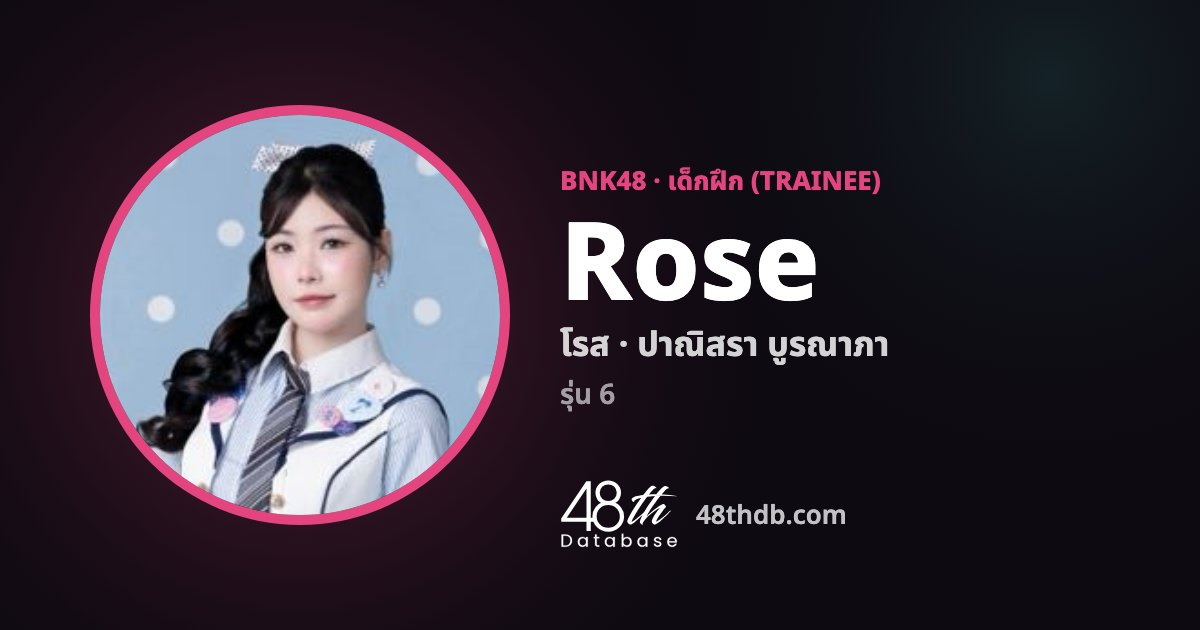
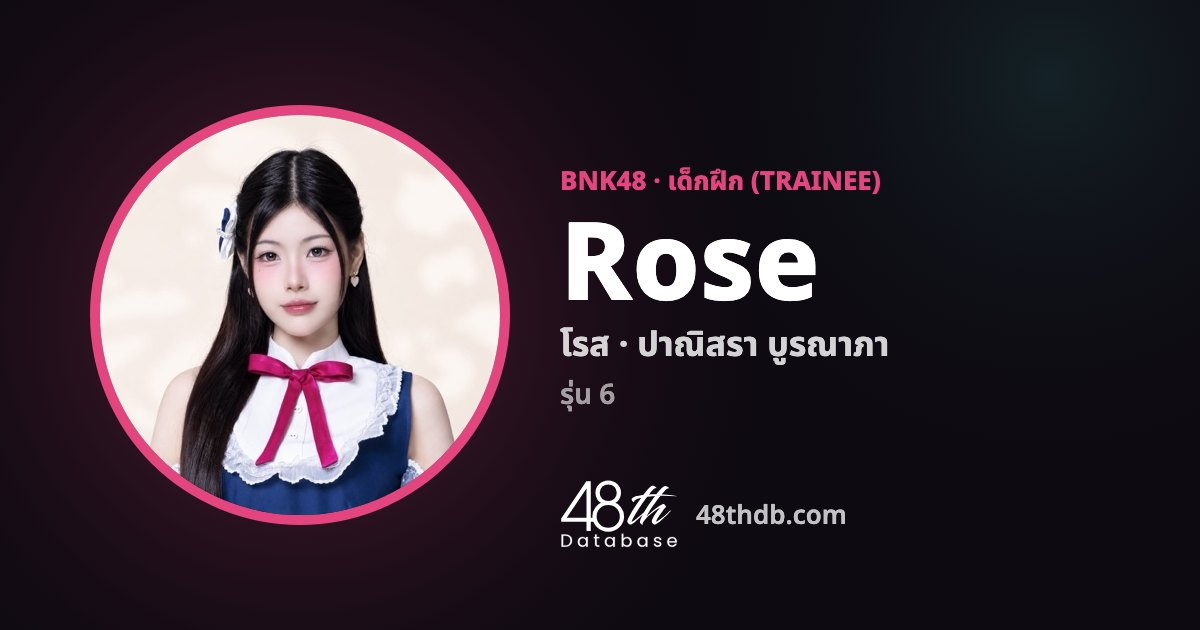
Rose's new profile photo, as a file like everyone else's

Changed region(s): [[0.0617, 0.181, 0.4317, 0.8143]]

diff --git a/m/index.html b/m/index.html
@@ -44,7 +44,7 @@ h2{font-size:18px;margin:22px 0 8px}ul{margin:0;padding-left:20px}
 </head><body><div class="wrap">
 <div class="top"><a href="/">48thDb</a><a href="/?v=browse">เปิดในเว็บ →</a></div>
 <h1>สมาชิก BNK48 และ CGM48</h1>
-<section class="grp"><h2>BNK48 (37)</h2><div class="list"><a href="/m/bnk-arlee"><img src="/photos/bnk-arlee.jpg" alt="" loading="lazy" width="36" height="36"><span><b>Arlee</b><small>อาหลี · Team NV</small></span></a><a href="/m/bnk-berry"><img src="/photos/bnk-berry.jpg" alt="" loading="lazy" width="36" height="36"><span><b>Berry</b><small>เบอร์รี่ · Team NV</small></span></a><a href="/m/bnk-blythe"><img src="/photos/bnk-blythe.jpg" alt="" loading="lazy" width="36" height="36"><span><b>Blythe</b><small>บลายธ์ · เด็กฝึก (Trainee)</small></span></a><a href="/m/bnk-cartoon"><img src="/photos/bnk-cartoon.jpg" alt="" loading="lazy" width="36" height="36"><span><b>Cartoon</b><small>การ์ตูน · เด็กฝึก (Trainee)</small></span></a><a href="/m/bnk-emmy"><img src="/photos/bnk-emmy.jpg" alt="" loading="lazy" width="36" height="36"><span><b>Emmy</b><small>เอ็มมี่ · Team NV</small></span></a><a href="/m/bnk-fame"><img src="/photos/bnk-fame.jpg" alt="" loading="lazy" width="36" height="36"><span><b>Fame</b><small>เฟม · Team BIII</small></span></a><a href="/m/bnk-galeya"><img src="/photos/bnk-galeya.jpg" alt="" loading="lazy" width="36" height="36"><span><b>Galeya</b><small>เกลญ่า · เด็กฝึก (Trainee)</small></span></a><a href="/m/bnk-grape"><img src="/photos/bnk-grape.jpg" alt="" loading="lazy" width="36" height="36"><span><b>Grape</b><small>เกรฟ · เด็กฝึก (Trainee)</small></span></a><a href="/m/bnk-hoop"><img src="/photos/bnk-hoop.jpg" alt="" loading="lazy" width="36" height="36"><span><b>Hoop</b><small>ฮูพ · Team BIII</small></span></a><a href="/m/bnk-inkcha"><img src="/photos/bnk-inkcha.jpg" alt="" loading="lazy" width="36" height="36"><span><b>Inkcha</b><small>อิ้งค์ชา · เด็กฝึก (Trainee)</small></span></a><a href="/m/bnk-janry"><img src="/photos/bnk-janry.jpg" alt="" loading="lazy" width="36" height="36"><span><b>Janry</b><small>แจนรี่ · Team BIII</small></span></a><a href="/m/bnk-jew"><img src="/photos/bnk-jew.jpg" alt="" loading="lazy" width="36" height="36"><span><b>Jew</b><small>จิว · Team NV</small></span></a><a href="/m/bnk-khaimook"><img src="/photos/bnk-khaimook.jpg" alt="" loading="lazy" width="36" height="36"><span><b>Khaimook</b><small>ไข่มุก · เด็กฝึก (Trainee)</small></span></a><a href="/m/bnk-khowjow"><img src="/photos/bnk-khowjow.jpg" alt="" loading="lazy" width="36" height="36"><span><b>Khowjow</b><small>ข้าวจ้าว · เด็กฝึก (Trainee)</small></span></a><a href="/m/bnk-l"><img src="/photos/bnk-l.jpg" alt="" loading="lazy" width="36" height="36"><span><b>L</b><small>แอล · Team NV</small></span></a><a href="/m/bnk-luksorn"><img src="/photos/bnk-luksorn.jpg" alt="" loading="lazy" width="36" height="36"><span><b>Luksorn</b><small>ลูกศร · Team BIII</small></span></a><a href="/m/bnk-mail"><img src="/photos/bnk-mail.jpg" alt="" loading="lazy" width="36" height="36"><span><b>Mail</b><small>เมล · Team BIII</small></span></a><a href="/m/bnk-marine"><img src="/photos/bnk-marine.jpg" alt="" loading="lazy" width="36" height="36"><span><b>Marine</b><small>มารีน · Team BIII</small></span></a><a href="/m/bnk-mayji"><img src="/photos/bnk-mayji.jpg" alt="" loading="lazy" width="36" height="36"><span><b>Mayji</b><small>เมย์จิ · เด็กฝึก (Trainee)</small></span></a><a href="/m/bnk-micha"><img src="/photos/bnk-micha.jpg" alt="" loading="lazy" width="36" height="36"><span><b>Micha</b><small>มิชา · Team BIII</small></span></a><a href="/m/bnk-mint"><img src="/photos/bnk-mint.jpg" alt="" loading="lazy" width="36" height="36"><span><b>Mint</b><small>มิ้นท์ · เด็กฝึก (Trainee)</small></span></a><a href="/m/bnk-mirin"><img src="/photos/bnk-mirin.jpg" alt="" loading="lazy" width="36" height="36"><span><b>Mirin</b><small>มิริน · เด็กฝึก (Trainee)</small></span></a><a href="/m/bnk-monet"><img src="/photos/bnk-monet.jpg" alt="" loading="lazy" width="36" height="36"><span><b>Monet</b><small>โมเน่ต์ · Team BIII</small></span></a><a href="/m/bnk-nall"><img src="/photos/bnk-nall.jpg" alt="" loading="lazy" width="36" height="36"><span><b>Nall</b><small>แนล · เด็กฝึก (Trainee)</small></span></a><a href="/m/bnk-nammonn"><img src="/photos/bnk-nammonn.jpg" alt="" loading="lazy" width="36" height="36"><span><b>Nammonn</b><small>น้ำมนต์ · เด็กฝึก (Trainee)</small></span></a><a href="/m/bnk-neen"><img src="/photos/bnk-neen.jpg" alt="" loading="lazy" width="36" height="36"><span><b>Neen</b><small>นีน · เด็กฝึก (Trainee)</small></span></a><a href="/m/bnk-niya"><img src="/photos/bnk-niya.jpg" alt="" loading="lazy" width="36" height="36"><span><b>Niya</b><small>นีญ่า · เด็กฝึก (Trainee)</small></span></a><a href="/m/bnk-palmmy"><img src="/photos/bnk-palmmy.jpg" alt="" loading="lazy" width="36" height="36"><span><b>Palmmy</b><small>ปาล์มมี่ · Team NV</small></span></a><a href="/m/bnk-pancake"><span class="ph"></span><span><b>Pancake</b><small>แพนเค้ก · Team NV</small></span></a><a href="/m/bnk-patt"><img src="/photos/bnk-patt.jpg" alt="" loading="lazy" width="36" height="36"><span><b>Patt</b><small>แพท · Team BIII</small></span></a><a href="/m/bnk-praew"><img src="/photos/bnk-praew.jpg" alt="" loading="lazy" width="36" height="36"><span><b>Praew</b><small>แพรว · Team BIII</small></span></a><a href="/m/bnk-proud"><img src="/photos/bnk-proud.jpg" alt="" loading="lazy" width="36" height="36"><span><b>Proud</b><small>ภราว · Team NV</small></span></a><a href="/m/bnk-rose"><span class="ph"></span><span><b>Rose</b><small>โรส · เด็กฝึก (Trainee)</small></span></a><a href="/m/bnk-saonoi"><img src="/photos/bnk-saonoi.jpg" alt="" loading="lazy" width="36" height="36"><span><b>Saonoi</b><small>สาวน้อย · Team NV</small></span></a><a href="/m/bnk-sindy"><img src="/photos/bnk-sindy.jpg" alt="" loading="lazy" width="36" height="36"><span><b>Sindy</b><small>ซินดี้ · Team NV</small></span></a><a href="/m/bnk-wawa"><img src="/photos/bnk-wawa.jpg" alt="" loading="lazy" width="36" height="36"><span><b>Wawa</b><small>วาว่า · Team BIII</small></span></a><a href="/m/bnk-yoghurt"><span class="ph"></span><span><b>Yoghurt</b><small>โยเกิร์ต · Team NV</small></span></a></div></section><section class="grp"><h2>CGM48 (21)</h2><div class="list"><a href="/m/cgm-chifa"><img src="/photos/cgm-chifa.jpg" alt="" loading="lazy" width="36" height="36"><span><b>Chifa</b><small>ชิฟา · เด็กฝึก (Trainee)</small></span></a><a href="/m/cgm-else"><img src="/photos/cgm-else.jpg" alt="" loading="lazy" width="36" height="36"><span><b>Else</b><small>เอลฟ์ · Team C</small></span></a><a href="/m/cgm-emma"><img src="/photos/cgm-emma.jpg" alt="" loading="lazy" width="36" height="36"><span><b>Emma</b><small>เอมม่า · เด็กฝึก (Trainee)</small></span></a><a href="/m/cgm-ginna"><img src="/photos/cgm-ginna.jpg" alt="" loading="lazy" width="36" height="36"><span><b>Ginna</b><small>จีนน่า · Team C</small></span></a><a href="/m/cgm-hongyok"><img src="/photos/cgm-hongyok.jpg" alt="" loading="lazy" width="36" height="36"><span><b>Hongyok</b><small>หงษ์หยก · เด็กฝึก (Trainee)</small></span></a><a href="/m/cgm-jingjing"><img src="/photos/cgm-jingjing.jpg" alt="" loading="lazy" width="36" height="36"><span><b>Jingjing</b><small>จิงจิง · Team C</small></span></a><a href="/m/cgm-kwan"><img src="/photos/cgm-kwan.jpg" alt="" loading="lazy" width="36" height="36"><span><b>Kwan</b><small>ขวัญ · Team C</small></span></a><a href="/m/cgm-lewlew"><img src="/photos/cgm-lewlew.jpg" alt="" loading="lazy" width="36" height="36"><span><b>Lewlew</b><small>หลิวหลิว · เด็กฝึก (Trainee)</small></span></a><a href="/m/cgm-lingling"><img src="/photos/cgm-lingling.jpg" alt="" loading="lazy" width="36" height="36"><span><b>Lingling</b><small>หลิงหลิง · Team C</small></span></a><a href="/m/cgm-lookked"><img src="/photos/cgm-lookked.jpg" alt="" loading="lazy" width="36" height="36"><span><b>Lookked</b><small>ลูกเกด · Team C</small></span></a><a href="/m/cgm-namphet"><img src="/photos/cgm-namphet.jpg" alt="" loading="lazy" width="36" height="36"><span><b>Namphet</b><small>น้ำเพชร · เด็กฝึก (Trainee)</small></span></a><a href="/m/cgm-nana"><img src="/photos/cgm-nana.jpg" alt="" loading="lazy" width="36" height="36"><span><b>Nana</b><small>นานา · Team C</small></span></a><a href="/m/cgm-nisha"><img src="/photos/cgm-nisha.jpg" alt="" loading="lazy" width="36" height="36"><span><b>Nisha</b><small>นิชา · Team C</small></span></a><a href="/m/cgm-ploen"><img src="/photos/cgm-ploen.jpg" alt="" loading="lazy" width="36" height="36"><span><b>Ploen</b><small>เพลิน · Team C</small></span></a><a href="/m/cgm-prae"><img src="/photos/cgm-prae.jpg" alt="" loading="lazy" width="36" height="36"><span><b>Prae</b><small>แพร · Team C</small></span></a><a href="/m/cgm-praifa"><img src="/photos/cgm-praifa.jpg" alt="" loading="lazy" width="36" height="36"><span><b>Praifa</b><small>ปลายฟ้า · เด็กฝึก (Trainee)</small></span></a><a href="/m/cgm-punpon"><img src="/photos/cgm-punpon.jpg" alt="" loading="lazy" width="36" height="36"><span><b>Punpon</b><small>ปันผล · เด็กฝึก (Trainee)</small></span></a><a href="/m/cgm-satangpound"><img src="/photos/cgm-satangpound.jpg" alt="" loading="lazy" width="36" height="36"><span><b>Satangpound</b><small>สตางค์ปอนด์ · เด็กฝึก (Trainee)</small></span></a><a href="/m/cgm-shenae"><img src="/photos/cgm-shenae.jpg" alt="" loading="lazy" width="36" height="36"><span><b>Shenae</b><small>ชีเน่ · เด็กฝึก (Trainee)</small></span></a><a href="/m/cgm-tara"><img src="/photos/cgm-tara.jpg" alt="" loading="lazy" width="36" height="36"><span><b>Tara</b><small>ธารา · เด็กฝึก (Trainee)</small></span></a><a href="/m/cgm-valentine"><img src="/photos/cgm-valentine.jpg" alt="" loading="lazy" width="36" height="36"><span><b>Valentine</b><small>วาเลนไทน์ · เด็กฝึก (Trainee)</small></span></a></div></section>
+<section class="grp"><h2>BNK48 (37)</h2><div class="list"><a href="/m/bnk-arlee"><img src="/photos/bnk-arlee.jpg" alt="" loading="lazy" width="36" height="36"><span><b>Arlee</b><small>อาหลี · Team NV</small></span></a><a href="/m/bnk-berry"><img src="/photos/bnk-berry.jpg" alt="" loading="lazy" width="36" height="36"><span><b>Berry</b><small>เบอร์รี่ · Team NV</small></span></a><a href="/m/bnk-blythe"><img src="/photos/bnk-blythe.jpg" alt="" loading="lazy" width="36" height="36"><span><b>Blythe</b><small>บลายธ์ · เด็กฝึก (Trainee)</small></span></a><a href="/m/bnk-cartoon"><img src="/photos/bnk-cartoon.jpg" alt="" loading="lazy" width="36" height="36"><span><b>Cartoon</b><small>การ์ตูน · เด็กฝึก (Trainee)</small></span></a><a href="/m/bnk-emmy"><img src="/photos/bnk-emmy.jpg" alt="" loading="lazy" width="36" height="36"><span><b>Emmy</b><small>เอ็มมี่ · Team NV</small></span></a><a href="/m/bnk-fame"><img src="/photos/bnk-fame.jpg" alt="" loading="lazy" width="36" height="36"><span><b>Fame</b><small>เฟม · Team BIII</small></span></a><a href="/m/bnk-galeya"><img src="/photos/bnk-galeya.jpg" alt="" loading="lazy" width="36" height="36"><span><b>Galeya</b><small>เกลญ่า · เด็กฝึก (Trainee)</small></span></a><a href="/m/bnk-grape"><img src="/photos/bnk-grape.jpg" alt="" loading="lazy" width="36" height="36"><span><b>Grape</b><small>เกรฟ · เด็กฝึก (Trainee)</small></span></a><a href="/m/bnk-hoop"><img src="/photos/bnk-hoop.jpg" alt="" loading="lazy" width="36" height="36"><span><b>Hoop</b><small>ฮูพ · Team BIII</small></span></a><a href="/m/bnk-inkcha"><img src="/photos/bnk-inkcha.jpg" alt="" loading="lazy" width="36" height="36"><span><b>Inkcha</b><small>อิ้งค์ชา · เด็กฝึก (Trainee)</small></span></a><a href="/m/bnk-janry"><img src="/photos/bnk-janry.jpg" alt="" loading="lazy" width="36" height="36"><span><b>Janry</b><small>แจนรี่ · Team BIII</small></span></a><a href="/m/bnk-jew"><img src="/photos/bnk-jew.jpg" alt="" loading="lazy" width="36" height="36"><span><b>Jew</b><small>จิว · Team NV</small></span></a><a href="/m/bnk-khaimook"><img src="/photos/bnk-khaimook.jpg" alt="" loading="lazy" width="36" height="36"><span><b>Khaimook</b><small>ไข่มุก · เด็กฝึก (Trainee)</small></span></a><a href="/m/bnk-khowjow"><img src="/photos/bnk-khowjow.jpg" alt="" loading="lazy" width="36" height="36"><span><b>Khowjow</b><small>ข้าวจ้าว · เด็กฝึก (Trainee)</small></span></a><a href="/m/bnk-l"><img src="/photos/bnk-l.jpg" alt="" loading="lazy" width="36" height="36"><span><b>L</b><small>แอล · Team NV</small></span></a><a href="/m/bnk-luksorn"><img src="/photos/bnk-luksorn.jpg" alt="" loading="lazy" width="36" height="36"><span><b>Luksorn</b><small>ลูกศร · Team BIII</small></span></a><a href="/m/bnk-mail"><img src="/photos/bnk-mail.jpg" alt="" loading="lazy" width="36" height="36"><span><b>Mail</b><small>เมล · Team BIII</small></span></a><a href="/m/bnk-marine"><img src="/photos/bnk-marine.jpg" alt="" loading="lazy" width="36" height="36"><span><b>Marine</b><small>มารีน · Team BIII</small></span></a><a href="/m/bnk-mayji"><img src="/photos/bnk-mayji.jpg" alt="" loading="lazy" width="36" height="36"><span><b>Mayji</b><small>เมย์จิ · เด็กฝึก (Trainee)</small></span></a><a href="/m/bnk-micha"><img src="/photos/bnk-micha.jpg" alt="" loading="lazy" width="36" height="36"><span><b>Micha</b><small>มิชา · Team BIII</small></span></a><a href="/m/bnk-mint"><img src="/photos/bnk-mint.jpg" alt="" loading="lazy" width="36" height="36"><span><b>Mint</b><small>มิ้นท์ · เด็กฝึก (Trainee)</small></span></a><a href="/m/bnk-mirin"><img src="/photos/bnk-mirin.jpg" alt="" loading="lazy" width="36" height="36"><span><b>Mirin</b><small>มิริน · เด็กฝึก (Trainee)</small></span></a><a href="/m/bnk-monet"><img src="/photos/bnk-monet.jpg" alt="" loading="lazy" width="36" height="36"><span><b>Monet</b><small>โมเน่ต์ · Team BIII</small></span></a><a href="/m/bnk-nall"><img src="/photos/bnk-nall.jpg" alt="" loading="lazy" width="36" height="36"><span><b>Nall</b><small>แนล · เด็กฝึก (Trainee)</small></span></a><a href="/m/bnk-nammonn"><img src="/photos/bnk-nammonn.jpg" alt="" loading="lazy" width="36" height="36"><span><b>Nammonn</b><small>น้ำมนต์ · เด็กฝึก (Trainee)</small></span></a><a href="/m/bnk-neen"><img src="/photos/bnk-neen.jpg" alt="" loading="lazy" width="36" height="36"><span><b>Neen</b><small>นีน · เด็กฝึก (Trainee)</small></span></a><a href="/m/bnk-niya"><img src="/photos/bnk-niya.jpg" alt="" loading="lazy" width="36" height="36"><span><b>Niya</b><small>นีญ่า · เด็กฝึก (Trainee)</small></span></a><a href="/m/bnk-palmmy"><img src="/photos/bnk-palmmy.jpg" alt="" loading="lazy" width="36" height="36"><span><b>Palmmy</b><small>ปาล์มมี่ · Team NV</small></span></a><a href="/m/bnk-pancake"><span class="ph"></span><span><b>Pancake</b><small>แพนเค้ก · Team NV</small></span></a><a href="/m/bnk-patt"><img src="/photos/bnk-patt.jpg" alt="" loading="lazy" width="36" height="36"><span><b>Patt</b><small>แพท · Team BIII</small></span></a><a href="/m/bnk-praew"><img src="/photos/bnk-praew.jpg" alt="" loading="lazy" width="36" height="36"><span><b>Praew</b><small>แพรว · Team BIII</small></span></a><a href="/m/bnk-proud"><img src="/photos/bnk-proud.jpg" alt="" loading="lazy" width="36" height="36"><span><b>Proud</b><small>ภราว · Team NV</small></span></a><a href="/m/bnk-rose"><img src="/photos/bnk-rose.jpg" alt="" loading="lazy" width="36" height="36"><span><b>Rose</b><small>โรส · เด็กฝึก (Trainee)</small></span></a><a href="/m/bnk-saonoi"><img src="/photos/bnk-saonoi.jpg" alt="" loading="lazy" width="36" height="36"><span><b>Saonoi</b><small>สาวน้อย · Team NV</small></span></a><a href="/m/bnk-sindy"><img src="/photos/bnk-sindy.jpg" alt="" loading="lazy" width="36" height="36"><span><b>Sindy</b><small>ซินดี้ · Team NV</small></span></a><a href="/m/bnk-wawa"><img src="/photos/bnk-wawa.jpg" alt="" loading="lazy" width="36" height="36"><span><b>Wawa</b><small>วาว่า · Team BIII</small></span></a><a href="/m/bnk-yoghurt"><span class="ph"></span><span><b>Yoghurt</b><small>โยเกิร์ต · Team NV</small></span></a></div></section><section class="grp"><h2>CGM48 (21)</h2><div class="list"><a href="/m/cgm-chifa"><img src="/photos/cgm-chifa.jpg" alt="" loading="lazy" width="36" height="36"><span><b>Chifa</b><small>ชิฟา · เด็กฝึก (Trainee)</small></span></a><a href="/m/cgm-else"><img src="/photos/cgm-else.jpg" alt="" loading="lazy" width="36" height="36"><span><b>Else</b><small>เอลฟ์ · Team C</small></span></a><a href="/m/cgm-emma"><img src="/photos/cgm-emma.jpg" alt="" loading="lazy" width="36" height="36"><span><b>Emma</b><small>เอมม่า · เด็กฝึก (Trainee)</small></span></a><a href="/m/cgm-ginna"><img src="/photos/cgm-ginna.jpg" alt="" loading="lazy" width="36" height="36"><span><b>Ginna</b><small>จีนน่า · Team C</small></span></a><a href="/m/cgm-hongyok"><img src="/photos/cgm-hongyok.jpg" alt="" loading="lazy" width="36" height="36"><span><b>Hongyok</b><small>หงษ์หยก · เด็กฝึก (Trainee)</small></span></a><a href="/m/cgm-jingjing"><img src="/photos/cgm-jingjing.jpg" alt="" loading="lazy" width="36" height="36"><span><b>Jingjing</b><small>จิงจิง · Team C</small></span></a><a href="/m/cgm-kwan"><img src="/photos/cgm-kwan.jpg" alt="" loading="lazy" width="36" height="36"><span><b>Kwan</b><small>ขวัญ · Team C</small></span></a><a href="/m/cgm-lewlew"><img src="/photos/cgm-lewlew.jpg" alt="" loading="lazy" width="36" height="36"><span><b>Lewlew</b><small>หลิวหลิว · เด็กฝึก (Trainee)</small></span></a><a href="/m/cgm-lingling"><img src="/photos/cgm-lingling.jpg" alt="" loading="lazy" width="36" height="36"><span><b>Lingling</b><small>หลิงหลิง · Team C</small></span></a><a href="/m/cgm-lookked"><img src="/photos/cgm-lookked.jpg" alt="" loading="lazy" width="36" height="36"><span><b>Lookked</b><small>ลูกเกด · Team C</small></span></a><a href="/m/cgm-namphet"><img src="/photos/cgm-namphet.jpg" alt="" loading="lazy" width="36" height="36"><span><b>Namphet</b><small>น้ำเพชร · เด็กฝึก (Trainee)</small></span></a><a href="/m/cgm-nana"><img src="/photos/cgm-nana.jpg" alt="" loading="lazy" width="36" height="36"><span><b>Nana</b><small>นานา · Team C</small></span></a><a href="/m/cgm-nisha"><img src="/photos/cgm-nisha.jpg" alt="" loading="lazy" width="36" height="36"><span><b>Nisha</b><small>นิชา · Team C</small></span></a><a href="/m/cgm-ploen"><img src="/photos/cgm-ploen.jpg" alt="" loading="lazy" width="36" height="36"><span><b>Ploen</b><small>เพลิน · Team C</small></span></a><a href="/m/cgm-prae"><img src="/photos/cgm-prae.jpg" alt="" loading="lazy" width="36" height="36"><span><b>Prae</b><small>แพร · Team C</small></span></a><a href="/m/cgm-praifa"><img src="/photos/cgm-praifa.jpg" alt="" loading="lazy" width="36" height="36"><span><b>Praifa</b><small>ปลายฟ้า · เด็กฝึก (Trainee)</small></span></a><a href="/m/cgm-punpon"><img src="/photos/cgm-punpon.jpg" alt="" loading="lazy" width="36" height="36"><span><b>Punpon</b><small>ปันผล · เด็กฝึก (Trainee)</small></span></a><a href="/m/cgm-satangpound"><img src="/photos/cgm-satangpound.jpg" alt="" loading="lazy" width="36" height="36"><span><b>Satangpound</b><small>สตางค์ปอนด์ · เด็กฝึก (Trainee)</small></span></a><a href="/m/cgm-shenae"><img src="/photos/cgm-shenae.jpg" alt="" loading="lazy" width="36" height="36"><span><b>Shenae</b><small>ชีเน่ · เด็กฝึก (Trainee)</small></span></a><a href="/m/cgm-tara"><img src="/photos/cgm-tara.jpg" alt="" loading="lazy" width="36" height="36"><span><b>Tara</b><small>ธารา · เด็กฝึก (Trainee)</small></span></a><a href="/m/cgm-valentine"><img src="/photos/cgm-valentine.jpg" alt="" loading="lazy" width="36" height="36"><span><b>Valentine</b><small>วาเลนไทน์ · เด็กฝึก (Trainee)</small></span></a></div></section>
 <section class="grp"><h2>อดีตสมาชิก BNK48 (71)</h2><div class="list"><a href="/m/bnk-bamboo"><img src="/photos/bnk-bamboo.jpg" alt="" loading="lazy" width="36" height="36"><span><b>Bamboo</b><small>แบมบู</small></span></a><a href="/m/bnk-cake"><img src="/photos/bnk-cake.jpg" alt="" loading="lazy" width="36" height="36"><span><b>Cake</b><small>เค้ก</small></span></a><a href="/m/bnk-can"><img src="/photos/bnk-can.jpg" alt="" loading="lazy" width="36" height="36"><span><b>Can</b><small>แคน</small></span></a><a href="/m/bnk-cherprang"><img src="/photos/bnk-cherprang.jpg" alt="" loading="lazy" width="36" height="36"><span><b>Cherprang</b><small>เฌอปราง</small></span></a><a href="/m/bnk-cincin"><img src="/photos/bnk-cincin.jpg" alt="" loading="lazy" width="36" height="36"><span><b>Cincin</b><small>ซินซิน</small></span></a><a href="/m/bnk-deenee"><img src="/photos/bnk-deenee.jpg" alt="" loading="lazy" width="36" height="36"><span><b>Deenee</b><small>ดีนี่</small></span></a><a href="/m/bnk-earn"><span class="ph"></span><span><b>Earn</b><small>เอิร์น</small></span></a><a href="/m/bnk-earth"><span class="ph"></span><span><b>Earth</b><small>เอิร์ธ</small></span></a><a href="/m/bnk-eve"><span class="ph"></span><span><b>Eve</b><small>อีฟ</small></span></a><a href="/m/bnk-faii"><img src="/photos/bnk-faii.jpg" alt="" loading="lazy" width="36" height="36"><span><b>Faii</b><small>ฝ้าย</small></span></a><a href="/m/bnk-fifa"><img src="/photos/bnk-fifa.jpg" alt="" loading="lazy" width="36" height="36"><span><b>Fifa</b><small>ฟีฟ่า</small></span></a><a href="/m/bnk-fond"><img src="/photos/bnk-fond.jpg" alt="" loading="lazy" width="36" height="36"><span><b>Fond</b><small>ฟ้อนด์</small></span></a><a href="/m/bnk-grace"><span class="ph"></span><span><b>Grace</b><small>เกรซ</small></span></a><a href="/m/bnk-gygee"><img src="/photos/bnk-gygee.jpg" alt="" loading="lazy" width="36" height="36"><span><b>Gygee</b><small>จีจี้</small></span></a><a href="/m/bnk-jaa"><img src="/photos/bnk-jaa.jpg" alt="" loading="lazy" width="36" height="36"><span><b>Jaa</b><small>จ๋า</small></span></a><a href="/m/bnk-jan"><img src="/photos/bnk-jan.jpg" alt="" loading="lazy" width="36" height="36"><span><b>Jan</b><small>แจน</small></span></a><a href="/m/bnk-jane"><img src="/photos/bnk-jane.jpg" alt="" loading="lazy" width="36" height="36"><span><b>Jane</b><small>เจน</small></span></a><a href="/m/bnk-jaokhem"><span class="ph"></span><span><b>Jaokhem</b><small>เจ้าเข็ม</small></span></a><a href="/m/bnk-jeje"><span class="ph"></span><span><b>Jeje</b><small>จีจี้</small></span></a><a href="/m/bnk-jennis"><img src="/photos/bnk-jennis.jpg" alt="" loading="lazy" width="36" height="36"><span><b>Jennis</b><small>เจนนิษฐ์</small></span></a><a href="/m/bnk-jib"><img src="/photos/bnk-jib.jpg" alt="" loading="lazy" width="36" height="36"><span><b>Jib</b><small>จิ๊บ</small></span></a><a href="/m/bnk-june"><img src="/photos/bnk-june.jpg" alt="" loading="lazy" width="36" height="36"><span><b>Juné</b><small>จูเน่</small></span></a><a href="/m/bnk-kaew"><img src="/photos/bnk-kaew.jpg" alt="" loading="lazy" width="36" height="36"><span><b>Kaew</b><small>แก้ว</small></span></a><a href="/m/bnk-kaimook"><img src="/photos/bnk-kaimook.jpg" alt="" loading="lazy" width="36" height="36"><span><b>Kaimook</b><small>ไข่มุก</small></span></a><a href="/m/bnk-kaofrang"><span class="ph"></span><span><b>Kaofrang</b><small>ข้าวฟ่าง</small></span></a><a href="/m/bnk-kate"><img src="/photos/bnk-kate.jpg" alt="" loading="lazy" width="36" height="36"><span><b>Kate</b><small>เคท</small></span></a><a href="/m/bnk-khamin"><img src="/photos/bnk-khamin.jpg" alt="" loading="lazy" width="36" height="36"><span><b>Khamin</b><small>ขมิ้น</small></span></a><a href="/m/bnk-kheng"><img src="/photos/bnk-kheng.jpg" alt="" loading="lazy" width="36" height="36"><span><b>Kheng</b><small>เข่ง</small></span></a><a href="/m/bnk-kitkat"><img src="/photos/bnk-kitkat.jpg" alt="" loading="lazy" width="36" height="36"><span><b>Kidcat</b><small>คิตแคต</small></span></a><a href="/m/bnk-korn"><img src="/photos/bnk-korn.jpg" alt="" loading="lazy" width="36" height="36"><span><b>Korn</b><small>ก่อน</small></span></a><a href="/m/bnk-maira"><img src="/photos/bnk-maira.jpg" alt="" loading="lazy" width="36" height="36"><span><b>Maira</b><small>มัยร่า</small></span></a><a href="/m/bnk-maysa"><img src="/photos/bnk-maysa.jpg" alt="" loading="lazy" width="36" height="36"><span><b>Maysa</b><small>เมษา</small></span></a><a href="/m/bnk-mean"><span class="ph"></span><span><b>Mean</b><small>มีน</small></span></a><a href="/m/bnk-mewnich"><img src="/photos/bnk-mewnich.jpg" alt="" loading="lazy" width="36" height="36"><span><b>Mewnich</b><small>มิวนิค</small></span></a><a href="/m/bnk-mind"><img src="/photos/bnk-mind.jpg" alt="" loading="lazy" width="36" height="36"><span><b>Mind</b><small>มายด์</small></span></a><a href="/m/bnk-minmin"><img src="/photos/bnk-minmin.jpg" alt="" loading="lazy" width="36" height="36"><span><b>Minmin</b><small>มินมิน</small></span></a><a href="/m/bnk-miori"><img src="/photos/bnk-miori.jpg" alt="" loading="lazy" width="36" height="36"><span><b>Miori</b><small>มิโอริ</small></span></a><a href="/m/bnk-mobile"><img src="/photos/bnk-mobile.jpg" alt="" loading="lazy" width="36" height="36"><span><b>Mobile</b><small>โมบายล์</small></span></a><a href="/m/bnk-music"><img src="/photos/bnk-music.jpg" alt="" loading="lazy" width="36" height="36"><span><b>Music</b><small>มิวสิค</small></span></a><a href="/m/bnk-myyu"><img src="/photos/bnk-myyu.jpg" alt="" loading="lazy" width="36" height="36"><span><b>Myyu</b><small>มายยู</small></span></a><a href="/m/bnk-namhom"><img src="/photos/bnk-namhom.jpg" alt="" loading="lazy" width="36" height="36"><span><b>Namhom</b><small>น้ำหอม</small></span></a><a href="/m/bnk-namneung"><img src="/photos/bnk-namneung.jpg" alt="" loading="lazy" width="36" height="36"><span><b>Namneung</b><small>น้ำหนึ่ง</small></span></a><a href="/m/bnk-namsai"><img src="/photos/bnk-namsai.jpg" alt="" loading="lazy" width="36" height="36"><span><b>Namsai</b><small>น้ำใส</small></span></a><a href="/m/bnk-nana"><span class="ph"></span><span><b>Nana</b><small>นานา</small></span></a><a href="/m/bnk-natherine"><img src="/photos/bnk-natherine.jpg" alt="" loading="lazy" width="36" height="36"><span><b>Natherine</b><small>แนทเธอรีน</small></span></a><a href="/m/bnk-nene"><span class="ph"></span><span><b>Nene</b><small>เนเน่</small></span></a><a href="/m/bnk-new"><img src="/photos/bnk-new.jpg" alt="" loading="lazy" width="36" height="36"><span><b>New</b><small>นิว</small></span></a><a href="/m/bnk-niky"><img src="/photos/bnk-niky.jpg" alt="" loading="lazy" width="36" height="36"><span><b>Niky</b><small>นิกี้</small></span></a><a href="/m/bnk-nine"><img src="/photos/bnk-nine.jpg" alt="" loading="lazy" width="36" height="36"><span><b>Nine</b><small>นาย</small></span></a><a href="/m/bnk-nink"><img src="/photos/bnk-nink.jpg" alt="" loading="lazy" width="36" height="36"><span><b>Nink</b><small>นิ้ง</small></span></a><a href="/m/bnk-noey"><img src="/photos/bnk-noey.jpg" alt="" loading="lazy" width="36" height="36"><span><b>Noey</b><small>เนย</small></span></a><a href="/m/bnk-oom"><img src="/photos/bnk-oom.jpg" alt="" loading="lazy" width="36" height="36"><span><b>Oom</b><small>อุ้ม</small></span></a><a href="/m/bnk-orn"><img src="/photos/bnk-orn.jpg" alt="" loading="lazy" width="36" height="36"><span><b>Orn</b><small>อร</small></span></a><a href="/m/bnk-paeyah"><span class="ph"></span><span><b>Paeyah</b><small>ปาเอญ่า</small></span></a><a href="/m/bnk-pakwan"><img src="/photos/bnk-pakwan.jpg" alt="" loading="lazy" width="36" height="36"><span><b>Pakwan</b><small>พาขวัญ</small></span></a><a href="/m/bnk-pampam"><span class="ph"></span><span><b>Pampam</b><small>แพมแพม</small></span></a><a href="/m/bnk-panda"><img src="/photos/bnk-panda.jpg" alt="" loading="lazy" width="36" height="36"><span><b>Panda</b><small>แพนด้า</small></span></a><a href="/m/bnk-peak"><span class="ph"></span><span><b>Peak</b><small>พีค</small></span></a><a href="/m/bnk-phukkhom"><img src="/photos/bnk-phukkhom.jpg" alt="" loading="lazy" width="36" height="36"><span><b>Phukkhom</b><small>ผักขม</small></span></a><a href="/m/bnk-piam"><img src="/photos/bnk-piam.jpg" alt="" loading="lazy" width="36" height="36"><span><b>Piam</b><small>เปี่ยม</small></span></a><a href="/m/bnk-pim"><span class="ph"></span><span><b>Pim</b><small>พิม</small></span></a><a href="/m/bnk-popper"><img src="/photos/bnk-popper.jpg" alt="" loading="lazy" width="36" height="36"><span><b>Popper</b><small>ป๊อปเป้อ</small></span></a><a href="/m/bnk-pun"><img src="/photos/bnk-pun.jpg" alt="" loading="lazy" width="36" height="36"><span><b>Pun</b><small>ปัญ</small></span></a><a href="/m/bnk-pupe"><img src="/photos/bnk-pupe.jpg" alt="" loading="lazy" width="36" height="36"><span><b>Pupe</b><small>ปูเป้</small></span></a><a href="/m/bnk-ratah"><img src="/photos/bnk-ratah.jpg" alt="" loading="lazy" width="36" height="36"><span><b>Ratah</b><small>รตา</small></span></a><a href="/m/bnk-satchan"><img src="/photos/bnk-satchan.jpg" alt="" loading="lazy" width="36" height="36"><span><b>Satchan</b><small>ซัทจัง</small></span></a><a href="/m/bnk-stang"><img src="/photos/bnk-stang.jpg" alt="" loading="lazy" width="36" height="36"><span><b>Stang</b><small>สตางค์</small></span></a><a href="/m/bnk-tarwaan"><img src="/photos/bnk-tarwaan.jpg" alt="" loading="lazy" width="36" height="36"><span><b>Tarwaan</b><small>ตาหวาน</small></span></a><a href="/m/bnk-view"><img src="/photos/bnk-view.jpg" alt="" loading="lazy" width="36" height="36"><span><b>View</b><small>วิว</small></span></a><a href="/m/bnk-wee"><img src="/photos/bnk-wee.jpg" alt="" loading="lazy" width="36" height="36"><span><b>Wee</b><small>วี</small></span></a><a href="/m/bnk-yayee"><span class="ph"></span><span><b>Yayee</b><small>ยาหยี</small></span></a></div></section><section class="grp"><h2>อดีตสมาชิก CGM48 (29)</h2><div class="list"><a href="/m/cgm-angel"><span class="ph"></span><span><b>Angel</b><small>แองเจิ้ล</small></span></a><a href="/m/cgm-aom"><span class="ph"></span><span><b>Aom</b><small>ออม</small></span></a><a href="/m/cgm-champoo"><span class="ph"></span><span><b>Champoo</b><small>แชมพู</small></span></a><a href="/m/cgm-fahsai"><span class="ph"></span><span><b>Fahsai</b><small>ฟ้าใส</small></span></a><a href="/m/cgm-fortune"><span class="ph"></span><span><b>Fortune</b><small>ฟอร์จูน</small></span></a><a href="/m/cgm-izurina"><span class="ph"></span><span><b>Izurina</b><small>อิซึรินะ</small></span></a><a href="/m/cgm-jayda"><span class="ph"></span><span><b>Jayda</b><small>เจย์ดา</small></span></a><a href="/m/cgm-jjae"><span class="ph"></span><span><b>Jjae</b><small>เจเจ</small></span></a><a href="/m/cgm-kaiwan"><span class="ph"></span><span><b>Kaiwan</b><small>ไข่หวาน</small></span></a><a href="/m/cgm-kaning"><span class="ph"></span><span><b>Kaning</b><small>คนิ้ง</small></span></a><a href="/m/cgm-kyla"><span class="ph"></span><span><b>Kyla</b><small>เคียล่า</small></span></a><a href="/m/cgm-latin"><span class="ph"></span><span><b>Latin</b><small>ลาติน</small></span></a><a href="/m/cgm-marmink"><span class="ph"></span><span><b>Marmink</b><small>มามิ้งค์</small></span></a><a href="/m/cgm-meen"><span class="ph"></span><span><b>Meen</b><small>มีน</small></span></a><a href="/m/cgm-mei"><span class="ph"></span><span><b>Mei</b><small>เหมย</small></span></a><a href="/m/cgm-meilli"><span class="ph"></span><span><b>Meilli</b><small>เหมยลี่</small></span></a><a href="/m/cgm-milk"><span class="ph"></span><span><b>Milk</b><small>มิลค์</small></span></a><a href="/m/cgm-nena"><span class="ph"></span><span><b>Nena</b><small>นีน่า</small></span></a><a href="/m/cgm-nenie"><span class="ph"></span><span><b>Nenie</b><small>นีนี่</small></span></a><a href="/m/cgm-nicha"><span class="ph"></span><span><b>Nicha</b><small>ณิชา</small></span></a><a href="/m/cgm-papang"><span class="ph"></span><span><b>Papang</b><small>พะแพง</small></span></a><a href="/m/cgm-parima"><span class="ph"></span><span><b>Parima</b><small>ปะริมะ</small></span></a><a href="/m/cgm-pepo"><span class="ph"></span><span><b>Pepo</b><small>ปีโป้</small></span></a><a href="/m/cgm-pim"><span class="ph"></span><span><b>Pim</b><small>พิม</small></span></a><a href="/m/cgm-ping"><span class="ph"></span><span><b>Ping</b><small>ปิ๊ง</small></span></a><a href="/m/cgm-punch"><span class="ph"></span><span><b>Punch</b><small>พั้นซ์</small></span></a><a href="/m/cgm-runma"><span class="ph"></span><span><b>Runma</b><small>รันม่า</small></span></a><a href="/m/cgm-sita"><span class="ph"></span><span><b>Sita</b><small>สิตา</small></span></a><a href="/m/cgm-twobam"><span class="ph"></span><span><b>Twobam</b><small>ทูแบม</small></span></a></div></section>
 <p class="foot">48thDb · เว็บฐานข้อมูล BNK48 และ CGM48 ที่จัดทำโดยแฟนคลับ ไม่ใช่เว็บทางการ</p>
 </div></body></html>

diff --git a/index.html b/index.html
@@ -4266,7 +4266,7 @@ const SEED_MEMBERS = [
   { id:'bnk-nammonn', name:'Nammonn', nameTh:'น้ำมนต์', realName:'Nattamon Songtis', realNameTh:'ณัฐมนต์ สองทิศ', groupId:'bnk48', teamId:'trainee-bnk', gen:5, birthday:'2003-08-10', height:168, blood:'O', hometown:'กรุงเทพฯ', hobby:'อนิเมะ ไอดอลญี่ปุ่น', likes:'อนิเมะ ไอดอลญี่ปุ่น', photo:'photos/bnk-nammonn.jpg', facts:['แฟน J-pop ตัวยง (PSYCHIC FEVER, THE RAMPAGE, timelesz)'] },
   { id:'bnk-neen', name:'Neen', nameTh:'นีน', realName:'Neira Bunnag', realNameTh:'นีร บุนนาค', groupId:'bnk48', teamId:'trainee-bnk', gen:5, birthday:'2002-04-14', height:160, blood:'A', hometown:'กรุงเทพฯ', hobby:'ดูอนิเมะ อ่านมังงะ เล่นเกม ฟังเพลง ทำขนม นอน', likes:'แมว ช็อกโกแลต สีแดง', photo:'photos/bnk-neen.jpg', facts:['เคยเป็นผู้สมัครรุ่น 2 พร้อมเนเน่'] },
   { id:'bnk-niya', name:'Niya', nameTh:'นีญ่า', realName:'Suvibha Laithomya', realNameTh:'สุวิภาส์ ลายถมยา', groupId:'bnk48', teamId:'trainee-bnk', gen:5, birthday:'2009-02-14', height:157, blood:'B', hometown:'กรุงเทพฯ', hobby:'ฟังเพลง ฟังเรื่องผี', likes:'ไดฟุกุ แซลมอนซาชิมิ ข้าวหน้าหมู', photo:'photos/bnk-niya.jpg', facts:['สมาชิกอายุน้อยที่สุดของรุ่น 5','อันดับ 1 โพลโครงการทูตวัฒนธรรมไทย-จีน ได้เป็นเซ็นเตอร์ Sky Lantern Wish'] },
[1 lines of base64/hex data omitted]
+  { id:'bnk-rose', name:'Rose', nameTh:'โรส', realName:'Panisara Buranapha', realNameTh:'ปาณิสรา บูรณาภา', groupId:'bnk48', teamId:'trainee-bnk', gen:6, birthday:'2007-11-01', height:167, blood:'B', hometown:'นครปฐม', hobby:'ดูซีรีส์ เล่นเกม ช็อปปิ้ง แต่งนิยาย', likes:'แมว สุนัข กระต่าย อาหารญี่ปุ่น ปิ้งย่าง ส้มตำ', photo:'photos/bnk-rose.jpg', facts:['อันดับ 1 โพลโครงการพิเศษไทย-ญี่ปุ่น ได้เป็นเซ็นเตอร์ Kimi ga Iru Dake de','MBTI INFP'] },
   // ---- CGM48 Team C ----
   { id:'cgm-lookked', name:'Lookked', nameTh:'ลูกเกด', realName:'Pimlapas Suwannoi', realNameTh:'พิมพ์ลภัส สุวรรณน้อย', groupId:'cgm48', teamId:'teamc', gen:2, birthday:'2000-07-06', height:161, blood:'B', hometown:'พัทยา จ.ชลบุรี', photo:'photos/cgm-lookked.jpg', facts:['กัปตันใหญ่ของ CGM48','สมาชิกคนแรกที่ได้ร่วมซิงเกิลของ AKB48'] },
   { id:'cgm-nana', name:'Nana', nameTh:'นานา', realName:'Penpichaya Boonsaner', realNameTh:'เพ็ญพิชญา บุญเสนอ', groupId:'cgm48', teamId:'teamc', gen:2, birthday:'2003-02-27', height:168, blood:'O', hometown:'อำนาจเจริญ', photo:'photos/cgm-nana.jpg', facts:['รองกัปตันใหญ่ของ CGM48','สมาชิกรุ่น 2 คนแรกที่ติดเซนบัตสึซิงเกิล BNK48 และได้เซ็นเตอร์ A-side เดี่ยว'] },

diff --git a/m/bnk-rose.html b/m/bnk-rose.html
@@ -41,12 +41,12 @@ h2{font-size:18px;margin:22px 0 8px}ul{margin:0;padding-left:20px}
 .list a{display:flex;align-items:center;gap:8px;padding:8px 10px;border:1px solid var(--line);border-radius:14px;background:var(--card);text-decoration:none;box-shadow:0 2px 0 var(--line)}
 .list img,.list .ph{width:36px;height:36px;border-radius:50%;object-fit:cover;background:var(--line);flex:none}.list b{display:block;line-height:1.2}.list small{color:var(--soft);font-size:12px}
 .foot{margin-top:28px;font-size:13px;color:var(--soft);text-align:center}</style>
-<script type="application/ld+json">{"@context":"https://schema.org","@type":"Person","name":"Rose","alternateName":["โรส","ปาณิสรา บูรณาภา","Panisara Buranapha"],"url":"https://48thdb.com/m/bnk-rose","image":"https://48thdb.com/photos/og/bnk-rose.jpg","birthDate":"2007-11-01","birthPlace":"นครปฐม","memberOf":{"@type":"MusicGroup","name":"BNK48"}}</script>
+<script type="application/ld+json">{"@context":"https://schema.org","@type":"Person","name":"Rose","alternateName":["โรส","ปาณิสรา บูรณาภา","Panisara Buranapha"],"url":"https://48thdb.com/m/bnk-rose","image":"https://48thdb.com/photos/bnk-rose.jpg","birthDate":"2007-11-01","birthPlace":"นครปฐม","memberOf":{"@type":"MusicGroup","name":"BNK48"}}</script>
 <script>if(/[?&]go\b/.test(location.search)) location.replace("/?m=bnk-rose");</script>
 </head><body><div class="wrap" style="--c:#E4457E">
 <div class="top"><a href="/">48thDb</a><a href="/m/">สมาชิกทั้งหมด</a></div>
 <main class="card">
[1 lines of base64/hex data omitted]
+  <div class="hero"><img src="/photos/bnk-rose.jpg" alt="Rose" width="132" height="132">
     <div><h1>Rose</h1><p class="sub">โรส · ปาณิสรา บูรณาภา</p>
     <div class="chips"><span class="chip g">BNK48</span><span class="chip">เด็กฝึก (Trainee)</span><span class="chip">รุ่น 6</span></div></div></div>
   <a class="go" href="/?m=bnk-rose">ดูโปรไฟล์เต็ม งาน และสถิติบน 48thDb →</a>
